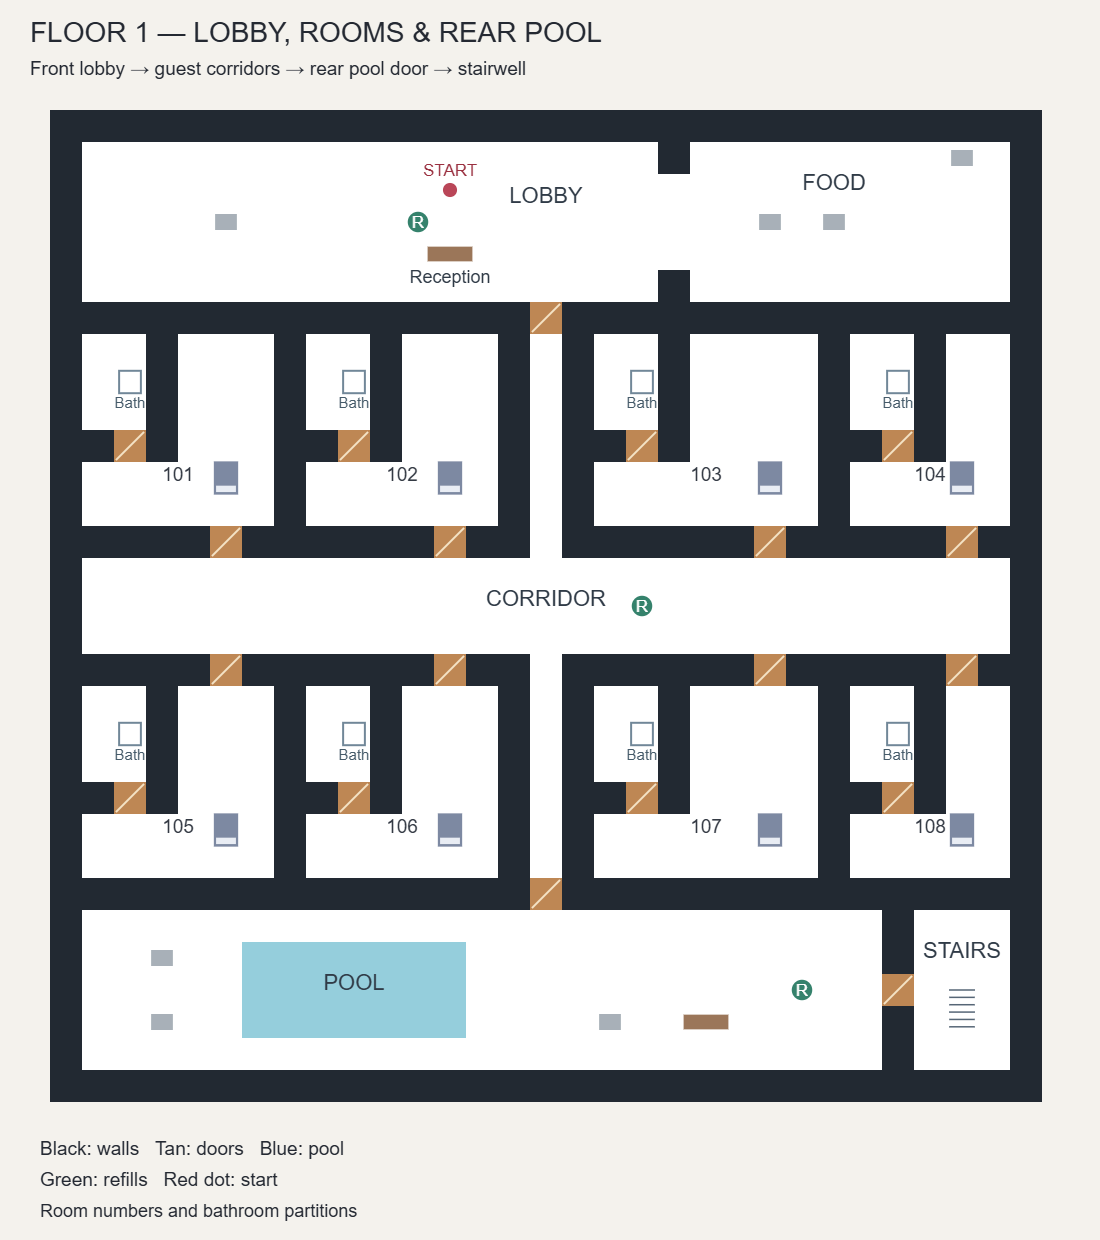
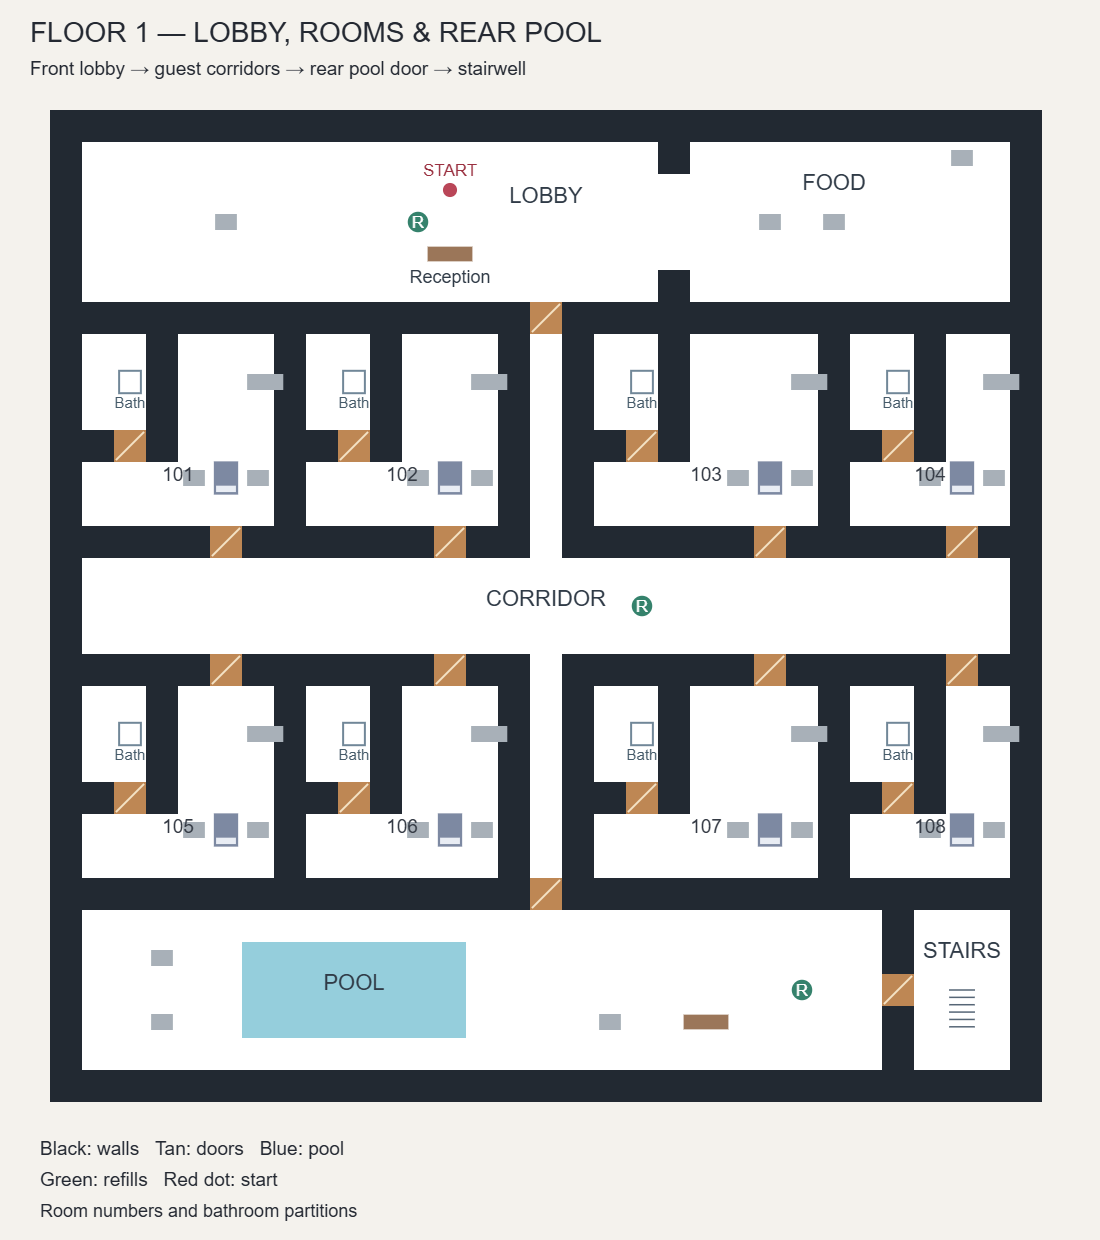
Furnish every hotel guest room and verify private bathroom access

diff --git a/hotel-headshots/rules.js b/hotel-headshots/rules.js
@@ -12,10 +12,10 @@
  ];
  function level(index){
   const grid=Array.from({length:SIZE},(_,z)=>Array.from({length:SIZE},(_,x)=>x===0||z===0||x===SIZE-1||z===SIZE-1?'#':'.'));
-  const doors=[],props=[],refills=[[11,3],[18,15],[23,27]],spawns=[],roomLabels=[],rooms=[];
+  const doors=[],props=[],refills=[[11,3],[18,15],[23,27]],spawns=[],roomLabels=[],rooms=[],obstacles=[];
   const wall=(x1,z1,x2,z2)=>{for(let z=z1;z<=z2;z++)for(let x=x1;x<=x2;x++)grid[z][x]='#';};
   const door=(x,z,label)=>{grid[z][x]='D';doors.push({x,z,label,open:false});};
-  const prop=(kind,x,z,extra={})=>{props.push({kind,x,z,...extra});if(['desk','couch','bed','bar','tub','dining-table','buffet'].includes(kind))grid[z][x]='F';};
+  const prop=(kind,x,z,extra={})=>{props.push({kind,x,z,...extra});if(['desk','couch','bed','bar','tub','dining-table','buffet','room-desk'].includes(kind))grid[z][x]='F';};
   // Front lobby, a longitudinal hall, and a double-loaded cross corridor.
   wall(1,6,29,6);door(15,6,'GUEST WING');
   const columns=index===3?[[1,13],[17,23],[25,29]]:index===4?[[1,13],[17,29]]:index===2?[[1,6],[8,13],[17,29]]:[[1,6],[8,13],[17,23],[25,29]];
@@ -25,6 +25,9 @@
    const bx=x0+1,bz=z0+1;wall(x0+2,z0,x0+2,z0+2);wall(x0,z0+3,x0+2,z0+3);door(x0+1,z0+3,'BATHROOM');
    prop('bath',bx,bz);const bed=[x1-1,z1-1];prop('bed',...bed);
    const room={id:rooms.length,number:(index+1)*100+rooms.length+1,bounds:[x0,z0,x1,z1],door:[dx,entryZ],bed,bath:[bx,bz],bedside:[bed[0],bed[1]+1],awake:[x1,z1]};rooms.push(room);
+   room.bathDoor=[x0+1,z0+3];room.furniture={nightstands:[[bed[0]-1,bed[1]],[bed[0]+1,bed[1]]],desk:[x1,z0+1],chair:[x1,z0+1.32],tv:[x1+.45,z0+1]};
+   for(const point of room.furniture.nightstands){prop('nightstand',...point,{room:room.id});obstacles.push({x:world(point[0])+(point[0]<bed[0]?1.05:-1.05),z:world(point[1])+.45,hx:.34,hz:.35});}
+   prop('room-desk',...room.furniture.desk,{room:room.id});prop('room-tv',...room.furniture.tv,{room:room.id});
    roomLabels.push(['ROOM '+room.number,dx,entryZ]);
    if(x1-x0>7)prop('couch',x1-3,z1-1);
   }
@@ -45,7 +48,7 @@
   if(index===3)prop('couch',27,15);
   roomLabels.push(['FRONT LOBBY',15,4],['GUEST CORRIDOR',15,15],['POOL / SPA',19,26]);
   for(let z=7;z<24;z++)for(let x=1;x<30;x++)if(grid[z][x]==='.'&&(z===15||x===15))spawns.push([x,z]);
-  return {index,theme:THEMES[index],grid,doors,props,refills,spawns,roomLabels,rooms,pool,dining,start:[12,2],stairs:[28,28],down:[15,2],reception:[12,4],receptionNPC:[11.65,4.65]};
+  return {index,theme:THEMES[index],grid,doors,props,refills,spawns,roomLabels,rooms,pool,dining,obstacles,start:[12,2],stairs:[28,28],down:[15,2],reception:[12,4],receptionNPC:[11.65,4.65]};
  }
  function inside(bounds,p){const x=cell(p.x),z=cell(p.z);return x>=bounds[0]&&x<=bounds[2]&&z>=bounds[1]&&z<=bounds[3];}
  function residents(map,count){return Array.from({length:count},(_,i)=>{const room=map.rooms[i%map.rooms.length];let role,point;
@@ -53,7 +56,7 @@
   return {id:i,role,room:room.id,x:world(point[0]),z:world(point[1]),style:i%6,wakeDuration:i%2?.45:2.6,wakeRemaining:0,activity:role==='diner'?'eating':role==='sleep'?'sleep':role==='swim'?'swim':role==='hall'?'wander':'idle',guardStyle:i%3};});}
  const cell=v=>Math.floor(v/TILE+.5),world=v=>v*TILE;
  function blocked(map,x,z,doors=true){const c=map.grid[z]?.[x];return !c||c==='#'||(c==='F'||c==='W')||(c==='D'&&doors&&!map.doors.find(d=>d.x===x&&d.z===z)?.open);}
- function fits(map,x,z,r=.28){return [[-r,-r],[-r,r],[r,-r],[r,r]].every(([dx,dz])=>!blocked(map,cell(x+dx),cell(z+dz)));}
+ function fits(map,x,z,r=.28){return !(map.obstacles||[]).some(o=>Math.abs(x-o.x)<o.hx+r&&Math.abs(z-o.z)<o.hz+r)&&[[-r,-r],[-r,r],[r,-r],[r,r]].every(([dx,dz])=>!blocked(map,cell(x+dx),cell(z+dz)));}
  function path(map,from,to){
   const sx=cell(from.x),sz=cell(from.z),tx=cell(to.x),tz=cell(to.z),start=sz*SIZE+sx,end=tz*SIZE+tx;
   if(blocked(map,tx,tz,false))return [];

diff --git a/hotel-headshots/scene.js b/hotel-headshots/scene.js
@@ -47,6 +47,25 @@
    }
    if(p.kind==='buffet'){box('food counter',[x,.52,z],[2.3,1.04,1.1],dark);box('serving top',[x,1.08,z],[2.4,.1,1.2],gold);for(const dx of [-.7,0,.7]){box('hot food tray',[x+dx,1.17,z],[.55,.1,.65],stone);sphere('food tray contents',[x+dx,1.24,z],[.45,.08,.55],mat('noodles','#c8a16a'));}box('extractor hood',[x,2.7,z],[2.5,.35,1.2],gold);sign('NIGHT BITES / OPEN 25 HOURS',[x,2.1,z+.62],3.3,.5,Math.PI);}
    if(p.kind==='couch')couch(x,z);
+   if(p.kind==='nightstand'){
+    // Move the small bedside cabinet toward the bed with a matching small collision footprint.
+    const bedX=R.world(map.rooms[p.room].bed[0]),nx=x+(bedX>x?1.05:-1.05);
+    box('bedside cabinet',[nx,.35,z+.45],[.62,.7,.65],wood);box('cabinet top',[nx,.73,z+.45],[.68,.06,.7],stone);
+    for(const y of [.22,.48]){box('bedside drawer',[nx,y,z+.11],[.55,.21,.025],dark);box('drawer pull',[nx,y,z+.08],[.16,.025,.035],gold);}
+    cylinder('bedside lamp base',[nx,.8,z+.5],.09,.23,gold);cylinder('bedside lamp stem',[nx,.96,z+.5],.27,.025,gold);const shade=mat('bedside shade','#bcb4a4',.8);shade.emissiveColor=new B.Color3(.2,.14,.08);cylinder('bedside lamp shade',[nx,1.15,z+.5],.24,.3,shade);
+    box('room phone',[nx+.17,.8,z+.23],[.19,.06,.19],dark);
+   }
+   if(p.kind==='room-desk'){
+    box('writing desk',[x,.77,z-.28],[1.65,.1,.82],wood);for(const a of [-.7,.7])for(const b of [-.62,.04])box('desk leg',[x+a,.36,z+b],[.055,.72,.055],gold);
+    box('desk drawer',[x+.47,.59,z-.28],[.54,.27,.7],dark);box('desk drawer handle',[x+.47,.59,z+.09],[.22,.035,.04],gold);
+    box('hotel stationery',[x-.35,.84,z-.25],[.34,.015,.25],white);box('desk pen',[x-.12,.86,z-.2],[.015,.015,.2],gold);cylinder('desk mug',[x+.46,.91,z-.4],.2,.14,white);
+    const cz=z+.77;box('desk chair seat',[x,.47,cz],[.55,.1,.52],cloth);box('desk chair back',[x,.85,cz+.24],[.55,.7,.07],wood);for(const a of [-.22,.22])for(const b of [-.2,.2])box('desk chair leg',[x+a,.22,cz+b],[.045,.44,.045],gold);
+   }
+   if(p.kind==='room-tv'){
+    box('TV bracket',[x+.06,1.94,z],[.14,.35,.35],gold);box('flat screen TV',[x,1.94,z],[.11,.91,1.55],dark);
+    sign('HOTEL TV / CHECKOUT 11:00',[x-.061,1.94,z],1.42,.78,Math.PI/2,'#83b9cb');
+    cylinder('TV standby LED',[x-.07,1.53,z-.65],.025,.025,lampMat);
+   }
    if(p.kind==='bed'){box('bed frame',[x,.25,z],[1.7,.4,2.15],wood);box('mattress',[x,.57,z],[1.65,.3,2.1],white);box('duvet',[x,.76,z-.25],[1.67,.12,1.5],cloth);box('headboard',[x,1.05,z+1.02],[1.8,1.5,.15],wood);for(const s of [-1,1])sphere('pillow',[x+s*.4,.82,z+.65],[.65,.17,.42],white);}
    if(p.kind==='desk'||p.kind==='bar'){box('counter',[x,p.kind==='desk'?.525:.65,z],[p.kind==='desk'?3.7:2.2,p.kind==='desk'?1.05:1.3,1.2],wood);box('countertop',[x,p.kind==='desk'?1.09:1.34,z],[p.kind==='desk'?3.9:2.4,.13,1.3],stone);for(const s of [-1,1])box('counter trim',[x+s*(p.kind==='desk'?1.7:1),p.kind==='desk'?.55:.68,z-.61],[.045,p.kind==='desk'?.85:1.1,.025],gold);if(p.kind==='bar'){for(let i=0;i<5;i++)bottle(x-.8+i*.38,1.42,z,i);}else{box('guest register',[x-.9,1.19,z],[.7,.06,.45],dark);box('register pages',[x-.9,1.23,z],[.65,.015,.4],white);cylinder('service bell',[x+.95,1.23,z-.1],.12,.2,gold);box('terminal',[x+.1,1.40,z+.1],[.5,.4,.08],dark);box('terminal screen',[x+.1,1.40,z+.05],[.43,.31,.01],glass);}sign(p.kind==='desk'?'CHECK IN · E':'BAR / NO TAB',[x,p.kind==='desk'?.77:1.05,z-.62],2,.35);}
    if(p.kind==='bath'){box('bath mat',[x,.012,z],[1.7,.025,2],stone);box('vanity',[x,.55,z+.65],[1.7,1.1,.65],wood);sphere('basin',[x,1.12,z+.65],[.7,.13,.4],white);cylinder('tap',[x,1.25,z+.85],.28,.06,gold);box('mirror frame',[x,1.95,z+1.05],[1.8,1.3,.08],gold);const mirrorMat=mat('mirror','#bcc6c9',.05,1),mirror=box('mirror',[x,1.95,z+1],[1.65,1.15,.015],mirrorMat,null,true);mirrors.push(mirror);}

diff --git a/void-runner-sw.js b/void-runner-sw.js
@@ -1,7 +1,7 @@
 /* VOID//RUNNER only. Increment BUILD when deploying changed game files (the Pages build also stamps it with the commit,
    tools/assets/build-pages.cjs, so a deploy always starts a fresh cache). Restored 2026-10-31: a merge on 2026-10-26
    (f6f582e) had reduced this file to its BUILD line, which left the game without its offline cache. */
-const BUILD='2026-11-24-hotel-headshots-5';
+const BUILD='2026-11-24-hotel-headshots-6';
 const CORE='void-runner-core-'+BUILD;
 const ASSETS='void-runner-assets-'+BUILD;
 const PAGE=new URL('./void-runner.html',self.location).pathname;

diff --git a/docs/development/HOTEL_HEADSHOTS.md b/docs/development/HOTEL_HEADSHOTS.md
@@ -34,7 +34,7 @@ Defensive poses alternate between forehead cover, palms-out and crossed forearms
 
 The games list has a Hotel Headshots card in root and static copies. Cabinet 1 (`arcade-cab-01`, formerly LASER MOTH) now runs `hotel-headshots/index.html` through the existing isolated arcade iframe. TURBO KELP remains unused. The cabinet has its own title, colors, poster, interaction and four-frame attract image captured from the game's actual opening screen. The existing anti-WarFlying screen is retained in place; only its obsolete `replaces: laser-moth` metadata is removed.
 
-The existing rule that every playable cabinet has a highest-score achievement and Dax holds those cabinet achievements is extended to this title. This is catalog/profile metadata only: the local leaderboard does not grant a verified District achievement. The read-only admin inventory is regenerated. District service-worker build: `2026-11-24-hotel-headshots-5`.
+The existing rule that every playable cabinet has a highest-score achievement and Dax holds those cabinet achievements is extended to this title. This is catalog/profile metadata only: the local leaderboard does not grant a verified District achievement. The read-only admin inventory is regenerated. District service-worker build: `2026-11-24-hotel-headshots-6`.
 
 No Sleeping Pod, music-player, account/save implementation, production API, merchandise, entitlement, payment or licensed-model file changed. The District HTML entrypoints remain unchanged and byte-identical.
 
@@ -58,3 +58,9 @@ See the checked screenshots in `hotel-headshots/` alongside this document. Do no
 The ground-floor lobby now has a side food area, NIGHT BITES, with two dining tables, chairs, noodle bowls, cups, napkins, chopsticks, reactive bottles and a hot-food counter. Two existing guest slots become seated diners, keeping difficulty counts unchanged. They animate eating with a held spoon, remain seated before check-in, and stand at different speeds when approached after check-in or alerted by foam. Their chair exits are walkable; the normal chase/retreat rules resume after standing. Seated hit volumes follow the same skeleton. Dining activity and standing progress survive floor revisits. Other floors retain their lounges. Updated plans show the food area.
 
 Dining validation: ten Hotel Headshots rule/model tests pass, including clear diner exit routes. The resident browser suite confirms eating before payment, two stand-up transitions, walkable pursuit starts, sleeper timing, bathroom pursuit and both swimmers leaving the pool, with no page errors. Checked image: `hotel-headshots/lobby-dining.png`. Seating and eating use procedural skeleton poses, not motion capture.
+
+## Guest-room furnishings — 24 November 2026
+
+All 32 bedrooms across five floors now include two bedside cabinets with drawers, lamps and a room phone, a writing desk with stationery and mug, a desk chair, and a wall-mounted TV displaying hotel information. Every room has its own existing enclosed bathroom, usable bathroom door, vanity/mirror, shower and toilet. Explicit bathroom-door and furniture data make completeness testable. Small bedside cabinets use fitted collision bounds so they cannot seal off narrow rooms. Tests cover bedroom-to-bathroom/entry/awake-position paths, including sampling actual player collision along each path with doors open.
+
+Furnishing validation: all 12 Hotel Headshots rule/model tests passed; the complete resident browser suite passed with no page errors; both new room previews were visually checked. Screenshots: `hotel-headshots/furnished-room.png` and `hotel-headshots/room-desk-tv.png`. The TV currently displays the hotel information channel.

diff --git a/docs/development/AI_HANDOFF.md b/docs/development/AI_HANDOFF.md
@@ -6,7 +6,7 @@
 
 ## CURRENT DEVELOPMENT STATE — RESUME HERE
 
-> **Codex draft, 18 Nov 2026 — HOTEL HEADSHOTS:** New standalone five-floor foam-blaster arcade game on `codex/hotel-headshots`, with a games-list card and the first unused District cabinet (formerly LASER MOTH). Owner corrections: neon/cyberpunk, not fancy; centered tan-only blaster without gray/white attachments. 24 Nov NPC pass: textured adult MakeHuman characters, fitted original swimwear, skeletal locomotion/guard blending and bone-following hit regions replace the primitive figures. 24 Nov reference-plan redesign: enclosed bedrooms/bathrooms, front lobby, rear pool and separate stairwell; sleeping/waking/bathroom/swimming residents; three blocking poses including palms-out. Ground-floor side dining area added with seated eating guests and stand-to-pursue reactions. Plans and behavior screenshots are in the linked implementation notes. Environment remains procedural; not a photorealistic/AAA certification. Not merged or live. Implementation, verification and limitations: [`HOTEL_HEADSHOTS.md`](HOTEL_HEADSHOTS.md).
+> **Codex draft, 18 Nov 2026 — HOTEL HEADSHOTS:** New standalone five-floor foam-blaster arcade game on `codex/hotel-headshots`, with a games-list card and the first unused District cabinet (formerly LASER MOTH). Owner corrections: neon/cyberpunk, not fancy; centered tan-only blaster without gray/white attachments. 24 Nov NPC pass: textured adult MakeHuman characters, fitted original swimwear, skeletal locomotion/guard blending and bone-following hit regions replace the primitive figures. 24 Nov reference-plan redesign: enclosed bedrooms/bathrooms, front lobby, rear pool and separate stairwell; sleeping/waking/bathroom/swimming residents; three blocking poses including palms-out. Ground-floor side dining area added with seated eating guests and stand-to-pursue reactions. All 32 rooms now have paired nightstands, writing desks/chairs, wall TVs and verified private bathroom access. Plans and behavior screenshots are in the linked implementation notes. Environment remains procedural; not a photorealistic/AAA certification. Not merged or live. Implementation, verification and limitations: [`HOTEL_HEADSHOTS.md`](HOTEL_HEADSHOTS.md).
 
 
 ### 17 Nov 2026 (newest): MISSION 003 — CORPORATE CONNECTIONS (branch `claude/mission-003`, build `2026-11-17-mission-003-1`, pushed, NO PR, not merged)
